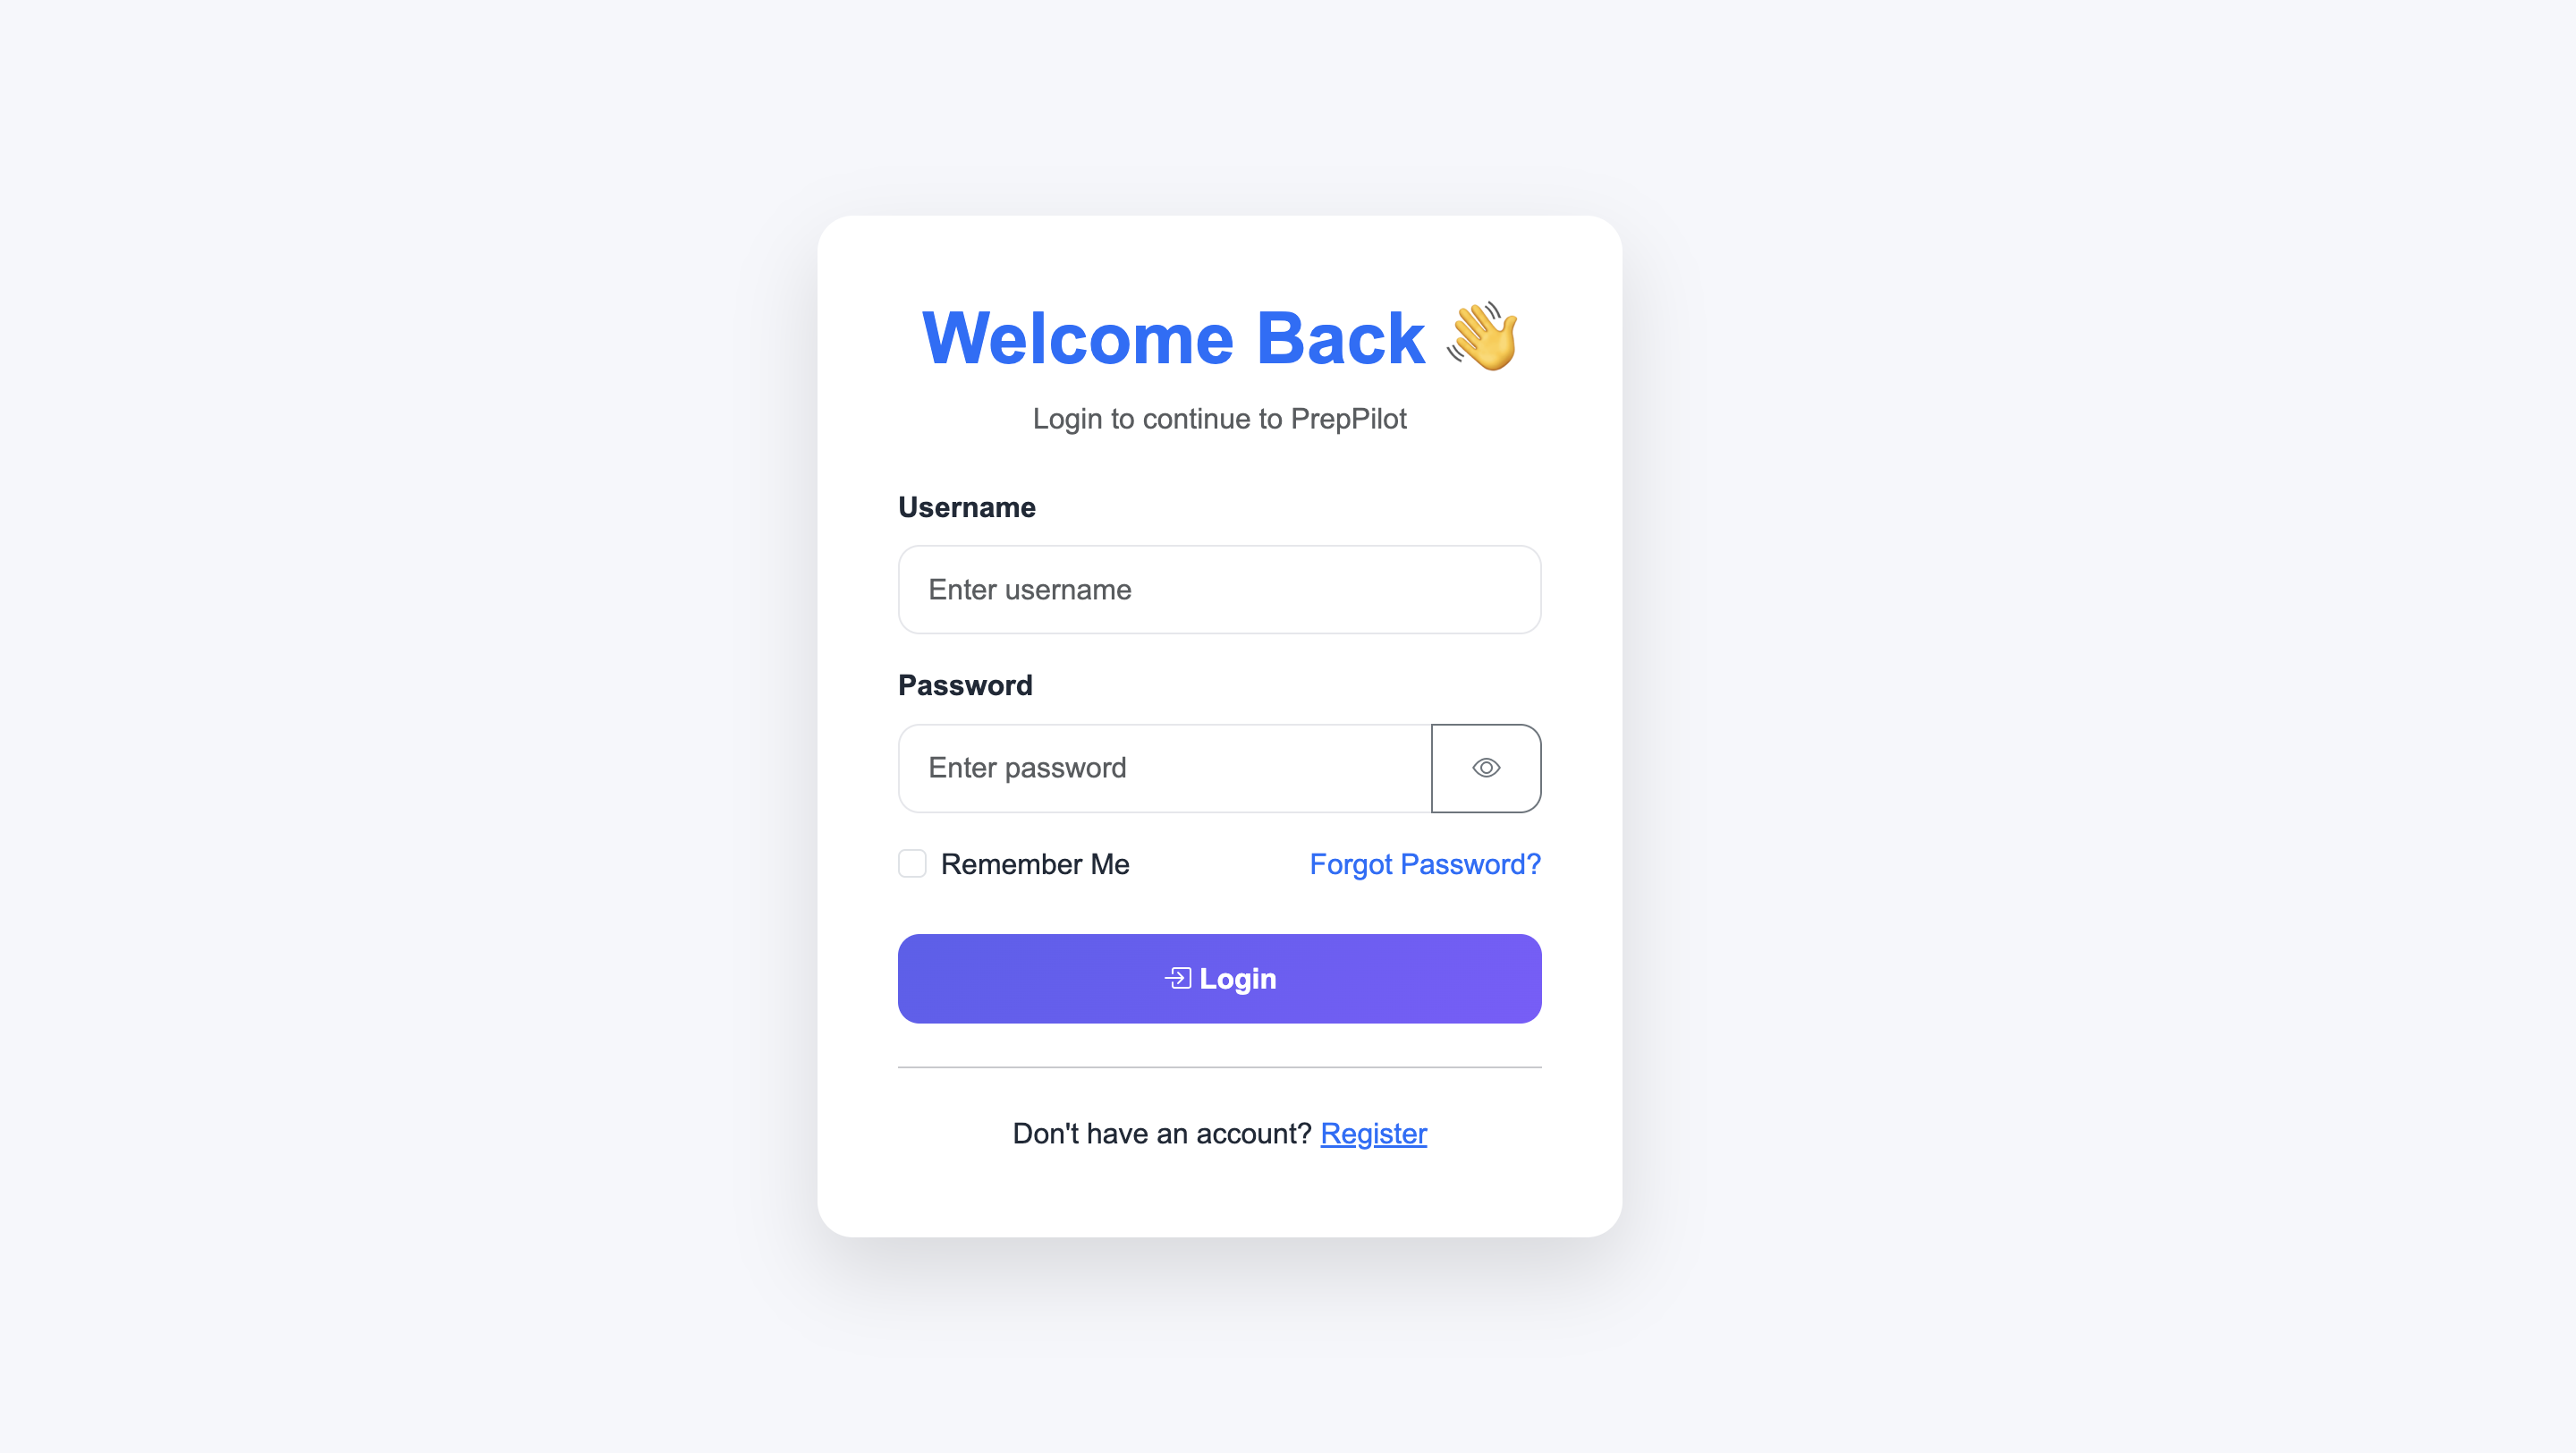
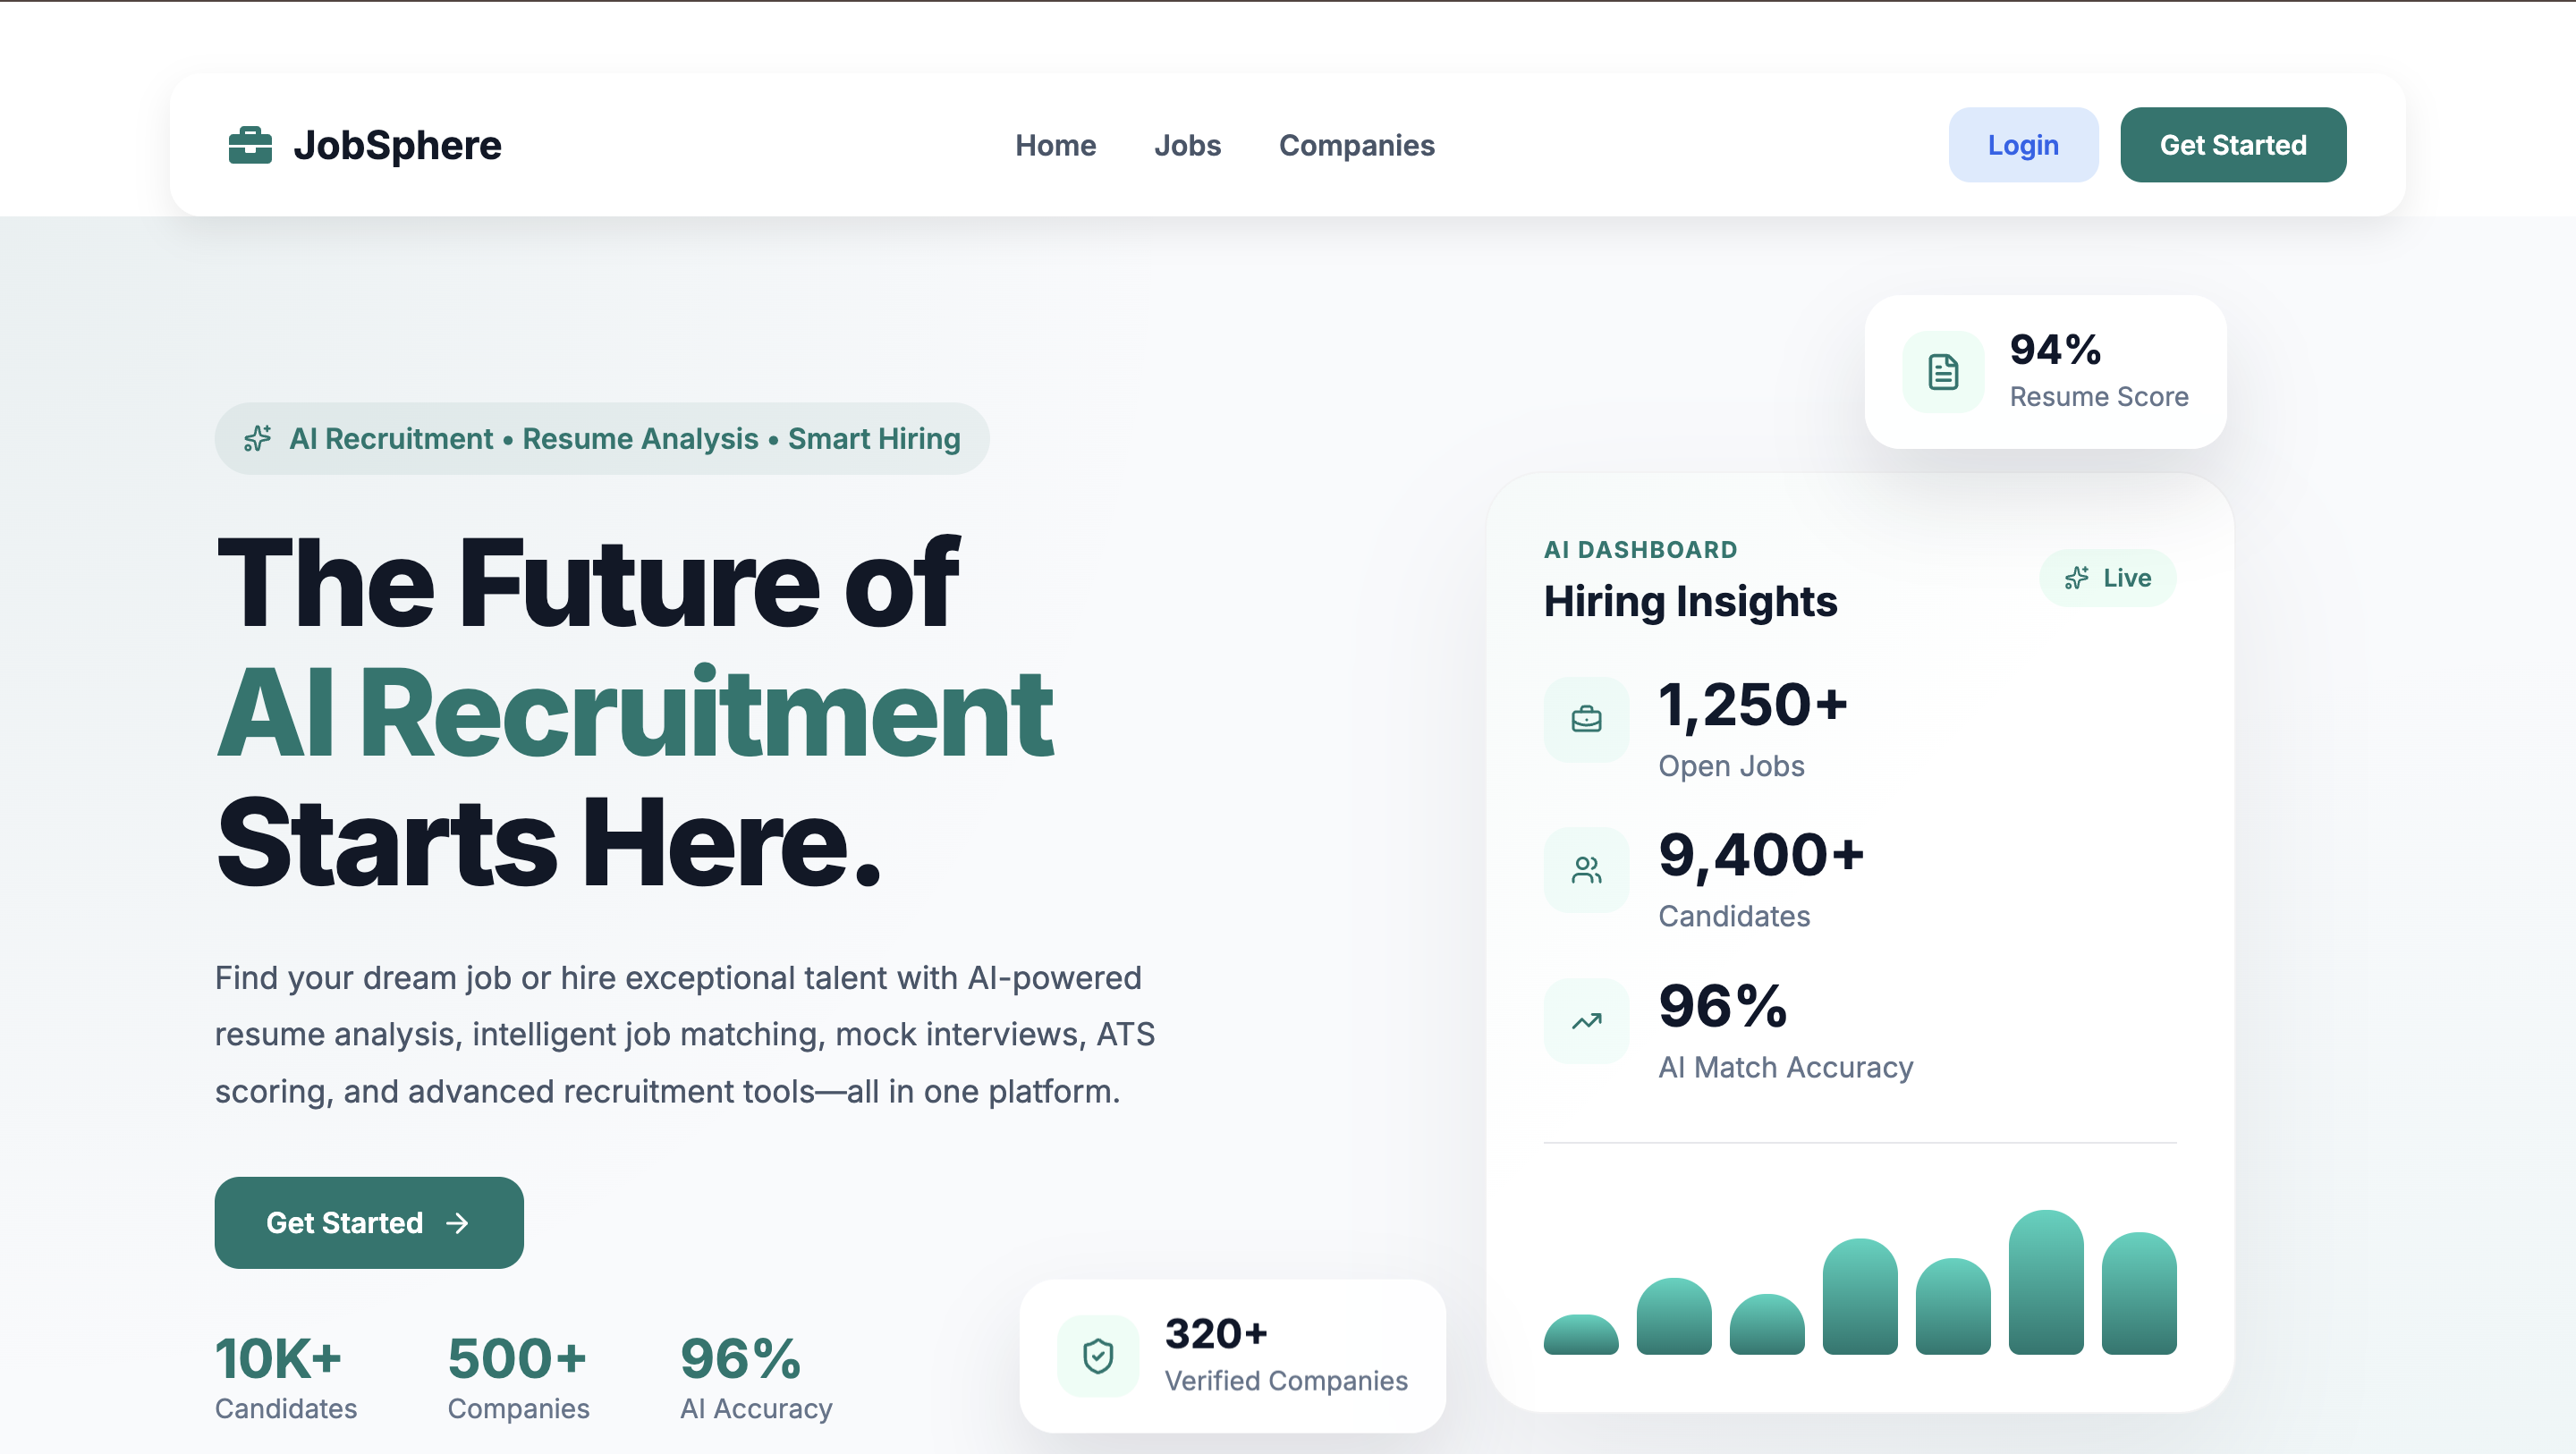
Update JobSphere status to live in portfolio

diff --git a/src/data/projects.js b/src/data/projects.js
@@ -1,28 +1,27 @@
 const projects = [
-    {
-      id: 1,
-      title: "City Hospital Management System",
-      image: "/projects/hospital.png",
-  
-      category: "Full Stack",
-      status: "Live",
-  
-      description:
-        "A complete Hospital Management System with doctor & patient authentication, appointment booking, medical report management, role-based dashboards, secure authentication, and responsive UI.",
-  
-      tech: [
-        "React",
-        "Django",
-        "DRF",
-        "PostgreSQL",
-        "JWT",
-        "Bootstrap",
-      ],
-  
-      github: "https://github.com/basith670/city-hospital-management-system",
-      live: "https://city-hospital-management-system.onrender.com",
+  {
+    id: 1,
+    title: "JobSphere",
+    image: "/projects/jobsphere.png",
+
+    category: "Full Stack",
+    status: "Live",
+
+    description:
+      "Full-stack job portal built with React and Django REST Framework featuring secure JWT authentication, role-based access for job seekers and recruiters, job posting, application tracking, responsive dashboards, and RESTful APIs.",
+
+    tech: [
+      "React",
+      "Django",
+      "DRF",
+      "PostgreSQL",
+      "JWT",
+    ],
+
+    github: "https://github.com/basith670/JobSphere",
+    live: "https://job-sphere-chi.vercel.app/",
     },
-  
+
     {
       id: 2,
       title: "PrepPilot",
@@ -46,17 +45,18 @@ const projects = [
       github: "https://github.com/basith670/PrepPilot",
       live: "https://preppilot-tx5z.onrender.com/",
     },
-  
+    
     {
+
       id: 3,
-      title: "JobSphere",
-      image: "/projects/jobsphere.png",
+      title: "City Hospital Management System",
+      image: "/projects/hospital.png",
   
       category: "Full Stack",
-      status: "In Progress",
+      status: "Live",
   
       description:
-        "Modern recruitment portal connecting employers and job seekers with secure authentication, job posting, application tracking, profile management, and responsive dashboards.",
+        "A complete Hospital Management System with doctor & patient authentication, appointment booking, medical report management, role-based dashboards, secure authentication, and responsive UI.",
   
       tech: [
         "React",
@@ -64,11 +64,14 @@ const projects = [
         "DRF",
         "PostgreSQL",
         "JWT",
+        "Bootstrap",
       ],
   
-      github: "https://github.com/basith670",
-      live: "#",
+      github: "https://github.com/basith670/city-hospital-management-system",
+      live: "https://city-hospital-management-system.onrender.com",
     },
+  
+  
   
     {
       id: 4,